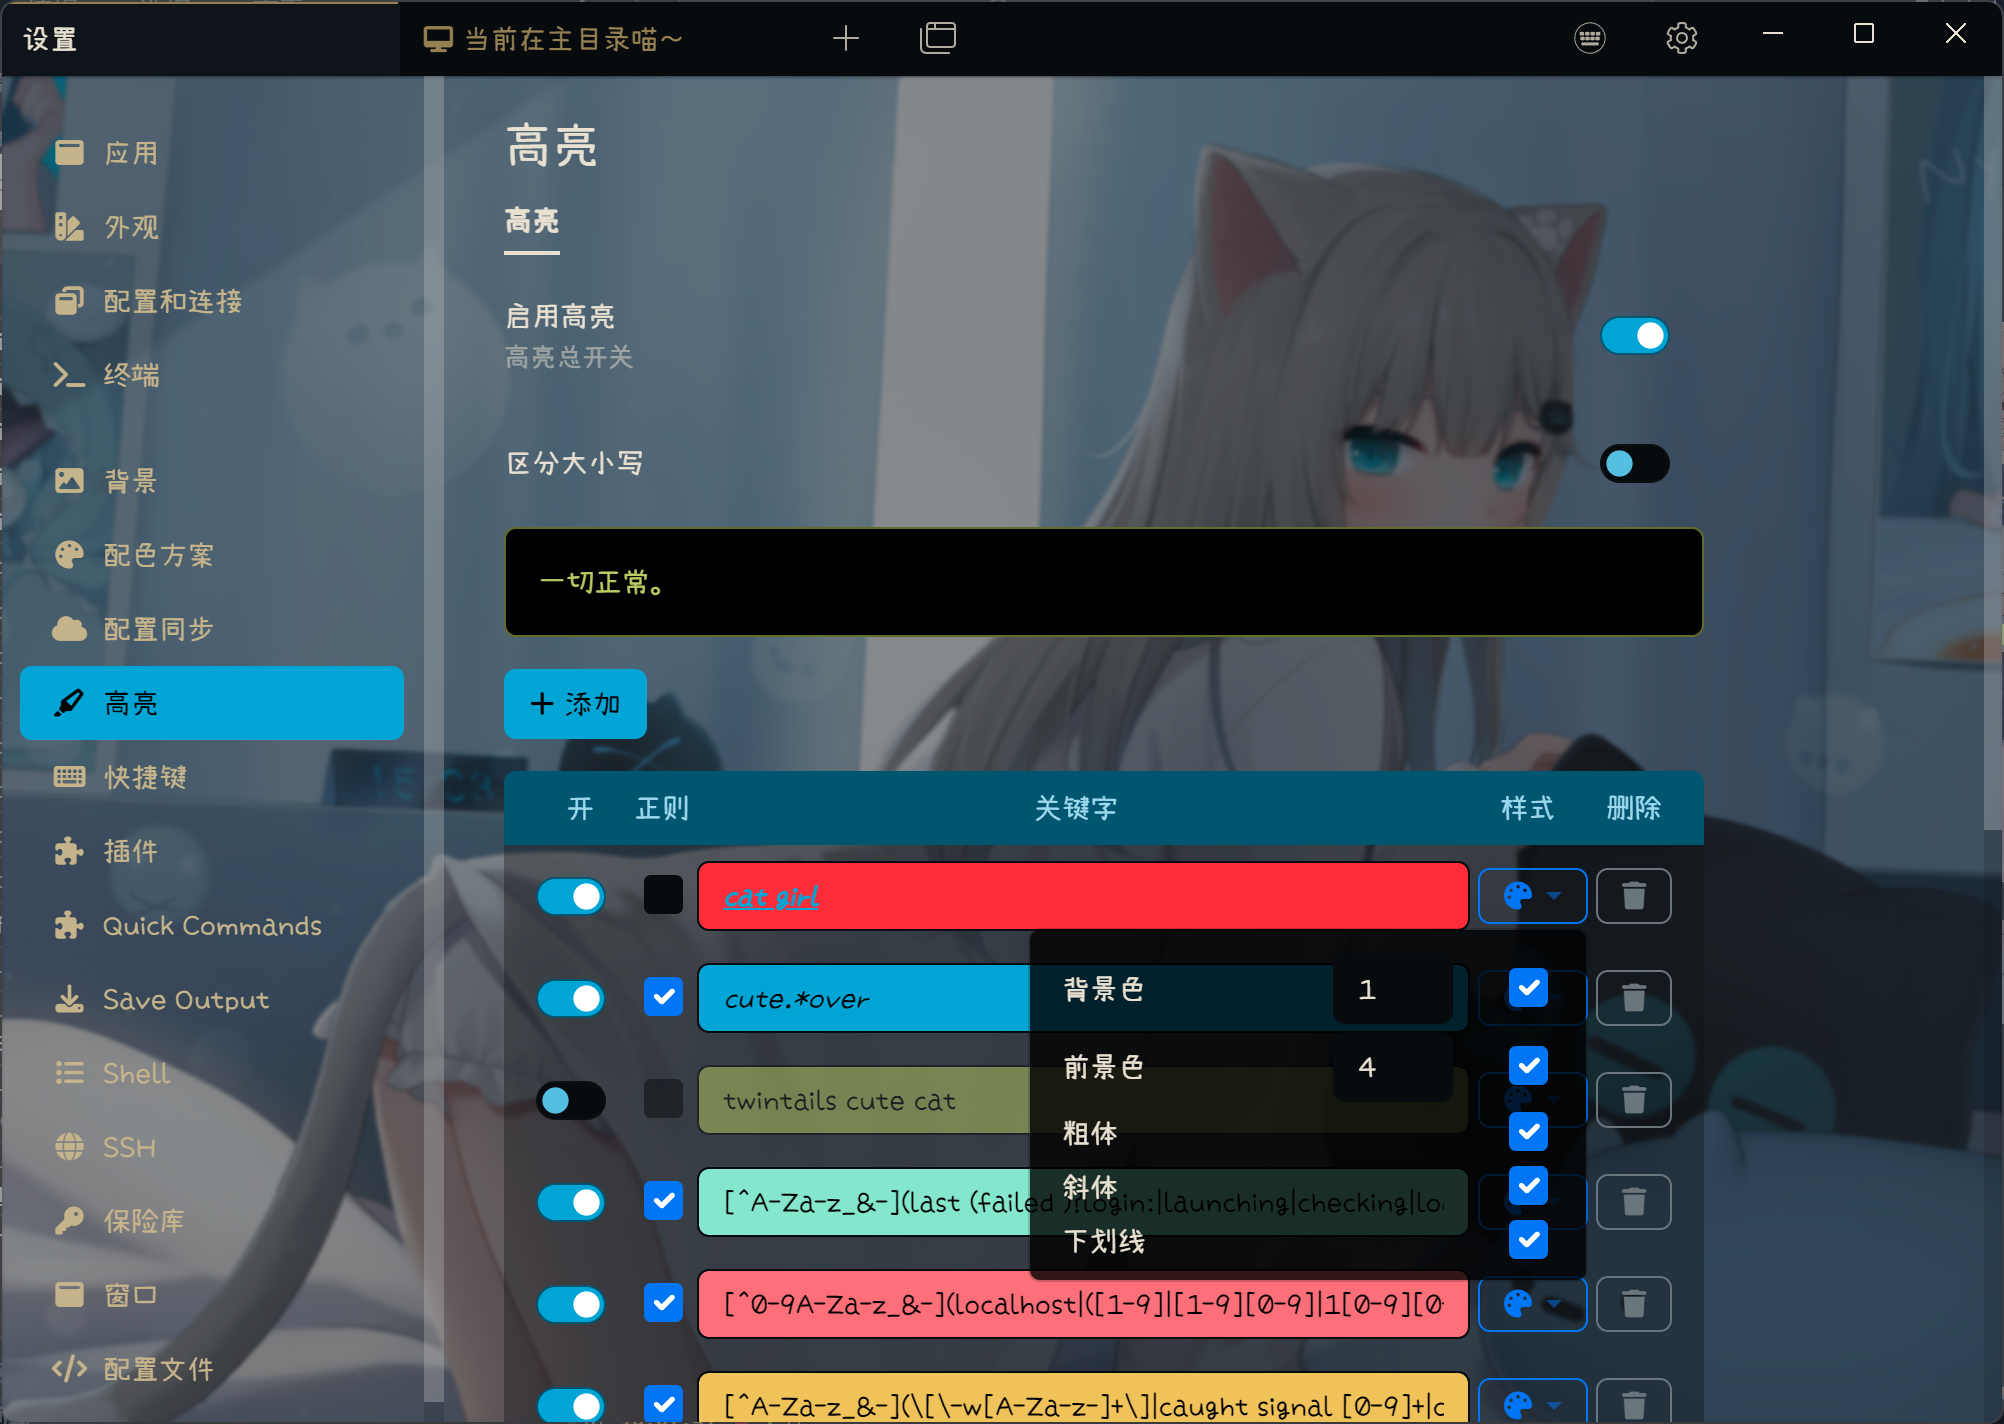
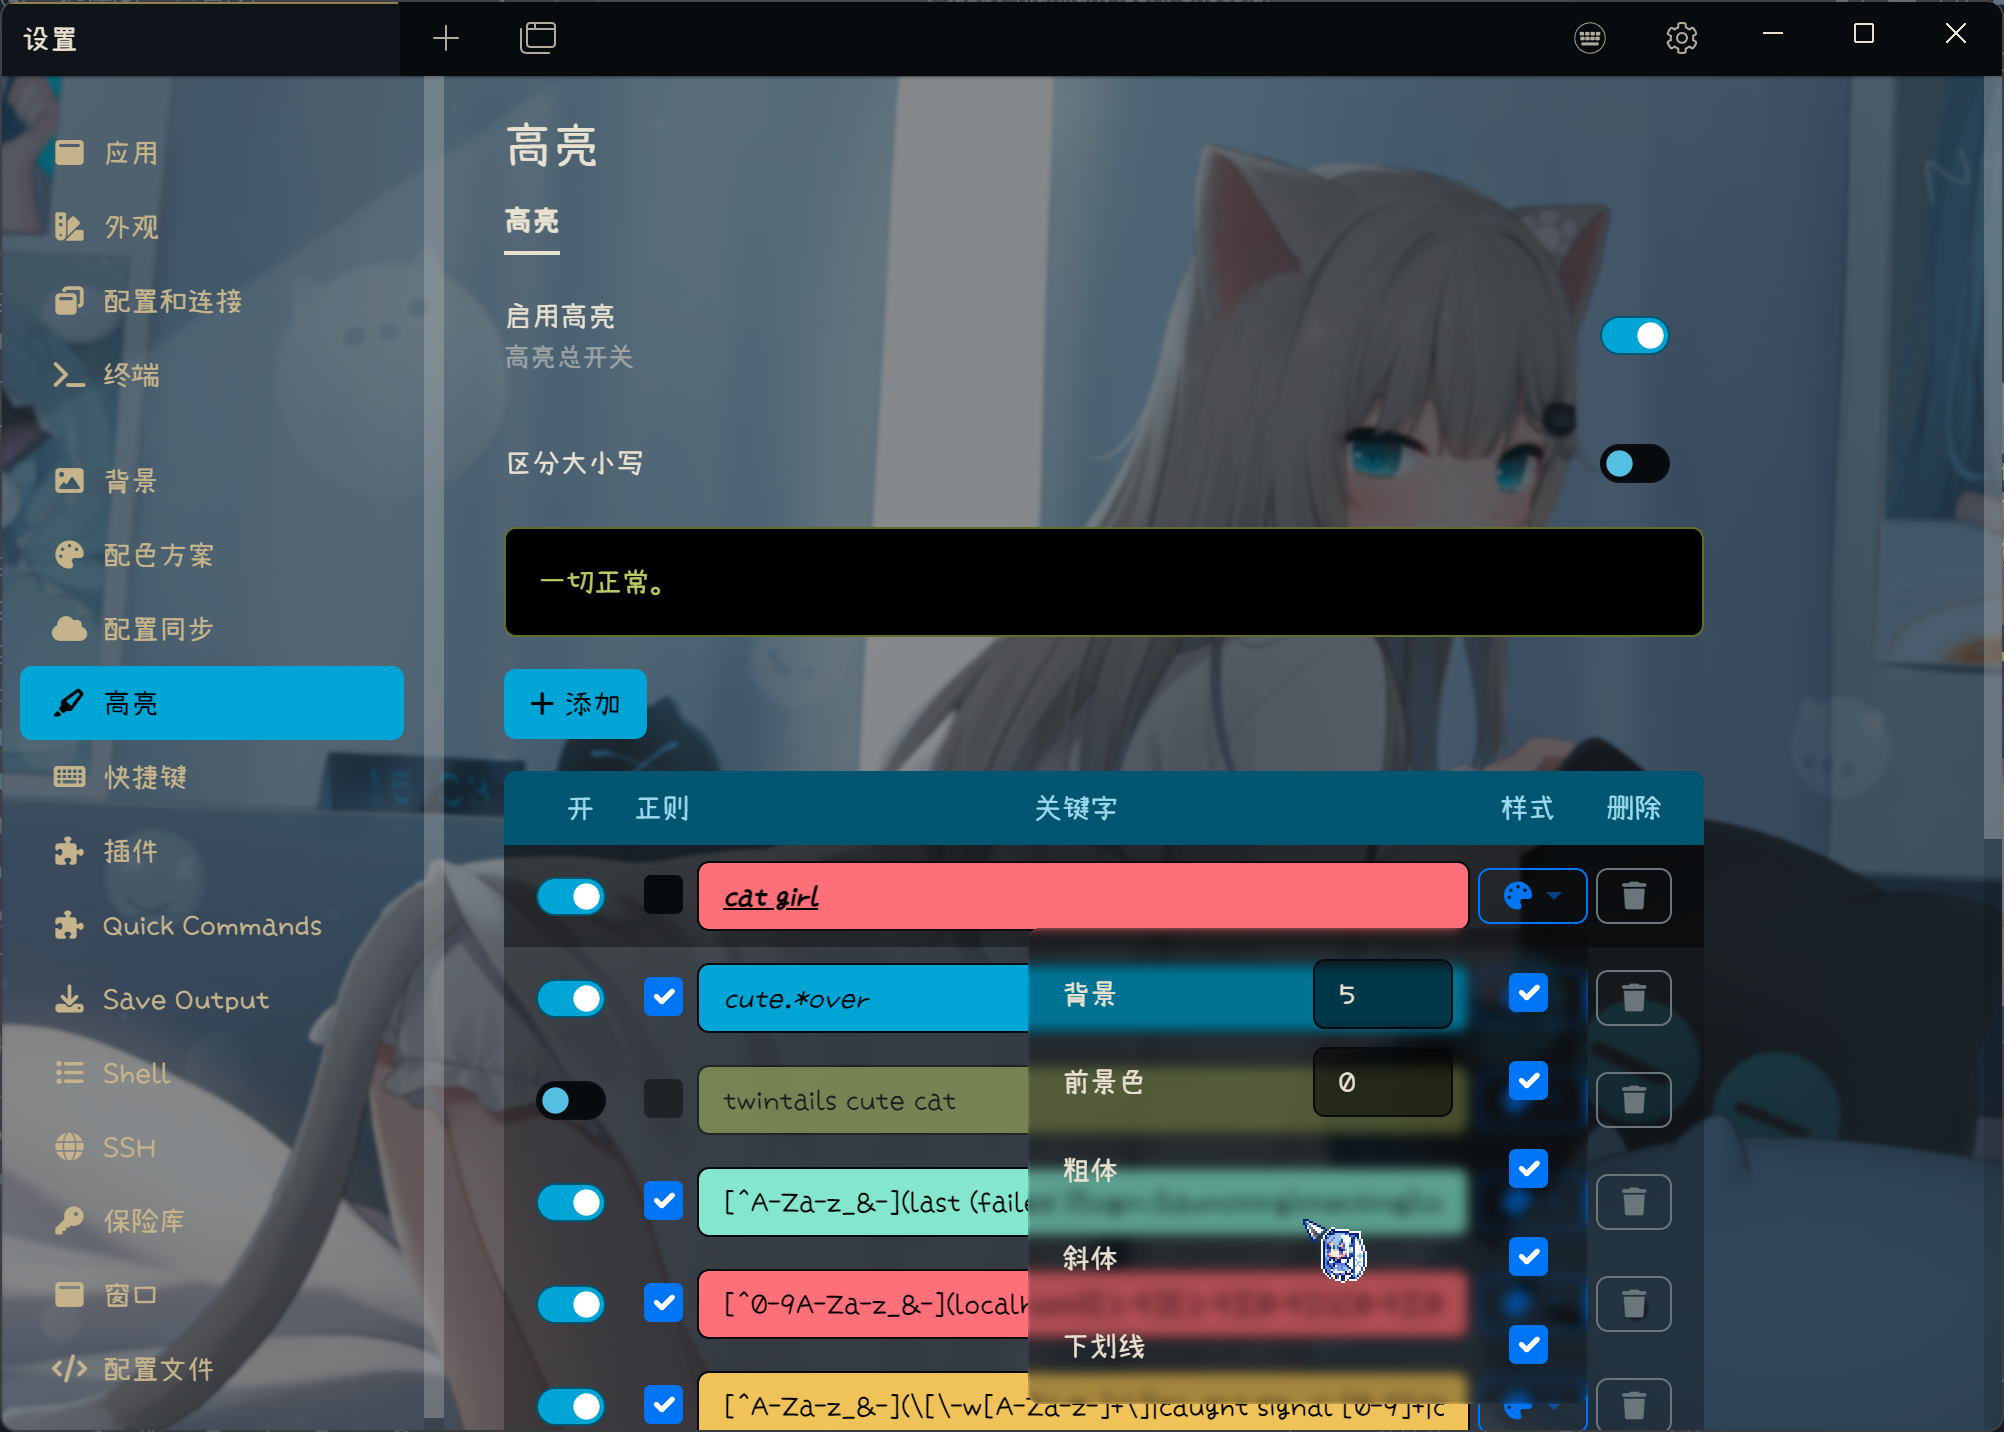
small improvement.

diff --git a/src/translations.ts b/src/translations.ts
@@ -12,13 +12,13 @@ export const translations: [string, HighlightPluginTranslations][] = [
       "Highlight applied!": "高亮已应用！",
       "ON": "开",
       "Keyword": "关键字",
-      "#FG": "前景色",
-      "#BG": "背景色",
+      "Foreground": "前景色",
+      "Background": "背景色",
       "DEL": "删除",
       "RegExp": "正则",
       "Case sensitive": "区分大小写",
-      "[Highlight] Something wrong in creating RegExp, please view logs at DevTool":
-        "[高亮] 创建正则表达式时出现错误，请查看开发者工具的日志",
+      "[Highlight] Something wrong in creating RegExp, please check highlight settings":
+        "[高亮] 创建正则表达式时出现错误，请检查高亮配置",
       "The following regexp is not valid:\n": "下面的正则表达式有问题：\n",
       "Everything looks good.": "一切正常。",
       "Style": "样式",

diff --git a/src/settingsTab.component.ts b/src/settingsTab.component.ts
@@ -9,12 +9,19 @@ import { HighlightKeyword } from "./configProvider";
 /** @hidden */
 @Component({
   template: require("./settingsTab.component.pug"),
-  styles: [``],
+  styles: [
+    `
+      .list-group-item-highlight {
+        --bs-list-group-action-hover-bg: rgba(0, 0, 0, 0.55);
+        // backdrop-filter: blur(3px);
+      }
+    `,
+  ],
 })
 export class HighlightSettingsTabComponent {
   styles = [
     {
-      name: "#BG",
+      name: "Background",
       enabledModel: "background",
       valueType: "number",
       valueModel: "backgroundColor",
@@ -22,7 +29,7 @@ export class HighlightSettingsTabComponent {
       max: 15,
     },
     {
-      name: "#FG",
+      name: "Foreground",
       enabledModel: "foreground",
       valueType: "number",
       valueModel: "foregroundColor",

diff --git a/src/highlight.middleware.ts b/src/highlight.middleware.ts
@@ -86,7 +86,9 @@ export default class HighlightMiddleware extends SessionMiddleware {
           : new RegExp(text.replace(/[.*+?^${}()|[\]\\]/g, "\\$&"), regexpFlag);
       } catch (e) {
         // 象征性的捕获并忽略一下错误喵
-        this.toast("[Highlight] Something wrong in creating RegExp, please view logs at DevTool");
+        this.toast(
+          "[Highlight] Something wrong in creating RegExp, please check highlight settings"
+        );
         this.logger.error(e.message);
       }
       const matches = tempString.matchAll(pattern);
